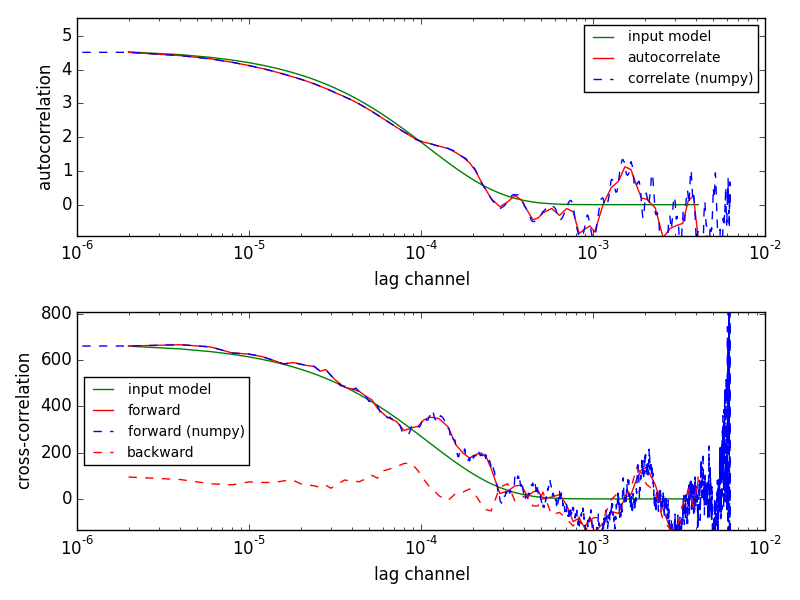
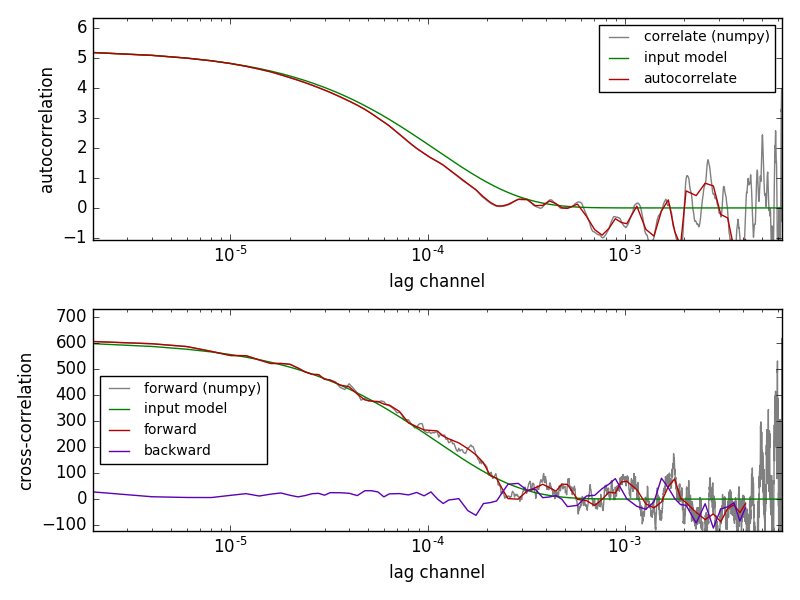
update example

diff --git a/examples/compare_correlation_methods.py b/examples/compare_correlation_methods.py
@@ -37,12 +37,10 @@ def compare_corr():
     # time factor
     taudiff *= deltat
 
-    ##
     ## Autocorrelation
-    ##
     print("Creating noise for autocorrelation")
     data = noise_exponential(N, taudiff, deltat=deltat)
-    data += - np.average(data)
+    data -= np.average(data)
     if normalize:
         data += countrate
     # multipletau
@@ -53,71 +51,66 @@ def compare_corr():
         print("Performing autocorrelation (numpy).")
         Gd = correlate_numpy(data, data, deltat=deltat,
                              normalize=normalize)
-    # Calculate the expected curve
-    x = G[:,0]
+    
+    ## Cross-correlation
+    print("Creating noise for cross-correlation")
+    a, v = noise_cross_exponential(N, taudiff, deltat=deltat)
+    a -= np.average(a)
+    v -= np.average(v)
+    if normalize:
+        a += countrate
+        v += countrate
+    Gccforw = correlate(a, v, deltat=deltat, normalize=normalize) # forward
+    Gccback = correlate(v, a, deltat=deltat, normalize=normalize) # backward
+    if len(a) < 1e5:
+        print("Performing cross-correlation (numpy).")
+        Gdccforw = correlate_numpy(a, v, deltat=deltat, normalize=normalize)
+    
+    ## Calculate the model curve for cross-correlation
+    xcc = Gd[:,0]
+    ampcc = np.correlate(a-np.average(a), v-np.average(v), mode="valid")
+    if normalize:
+        ampcc /= len(a) * countrate**2
+    ycc = ampcc*np.exp(-xcc/taudiff)
+
+    ## Calculate the model curve for autocorrelation
+    x = Gd[:,0]
     amp = np.correlate(data-np.average(data), data-np.average(data),
                        mode="valid")
     if normalize:
         amp /= len(data) * countrate**2
     y = amp*np.exp(-x/taudiff)
 
-    ##
-    ## Cross-correlation
-    ##
-    print("Creating noise for cross-correlation")
-    a, v = noise_cross_exponential(N, taudiff, deltat=deltat)
-    a += - np.average(a)
-    v += - np.average(v)
-    if normalize:
-        a += countrate
-        v += countrate
-    # multipletau
-    Gccforw = correlate(a, v, deltat=deltat, normalize=normalize)
-    Gccback = correlate(v, a, deltat=deltat, normalize=normalize)
-    if len(a) < 1e5:
-        print("Performing autocorrelation (numpy).")
-        Gdccforw = correlate_numpy(a, v, deltat=deltat, normalize=normalize)
-    # Calculate the expected curve
-    xcc = Gccforw[:,0]
-    ampcc = np.correlate(a-np.average(a), v-np.average(v), mode="valid")
 
-    if normalize:
-        ampcc /= len(a) * countrate**2
-    ycc = ampcc*np.exp(-xcc/taudiff)
-
-
-    ##
     ## Plotting
-    ##
-
     # AC
     fig = plt.figure()
     fig.canvas.set_window_title('testing multipletau')
     ax = fig.add_subplot(2,1,1)
     ax.set_xscale('log')
-    plt.plot(x, y, "g-", label="input model")
-    plt.plot(G[:,0], G[:,1], "r-", label="autocorrelate")
     if len(data) < 1e5:
-        plt.plot(Gd[:,0], Gd[:,1] , "b--", label="correlate (numpy)")
+        plt.plot(Gd[:,0], Gd[:,1] , "-", color="gray", label="correlate (numpy)")
+    plt.plot(x, y, "g-", label="input model")
+    plt.plot(G[:,0], G[:,1], "-",  color="#B60000", label="autocorrelate")
     plt.xlabel("lag channel")
     plt.ylabel("autocorrelation")
     plt.legend(loc=0, fontsize='small')
     plt.ylim( -amp*.2, amp*1.2)
+    plt.xlim( Gd[0,0], Gd[-1,0])
 
-
-    ## CC
+    # CC
     ax = fig.add_subplot(2,1,2)
     ax.set_xscale('log')
-    plt.plot(xcc, ycc, "g-", label="input model")
-    plt.plot(Gccforw[:,0], Gccforw[:,1], "r-", label="forward")
     if len(data) < 1e5:
-        plt.plot(Gdccforw[:,0], Gdccforw[:,1] , "b--", label="forward (numpy)")
-    plt.plot(Gccback[:,0], Gccback[:,1], "r--", label="backward")
+        plt.plot(Gdccforw[:,0], Gdccforw[:,1] , "-", color="gray", label="forward (numpy)")
+    plt.plot(xcc, ycc, "g-", label="input model")
+    plt.plot(Gccforw[:,0], Gccforw[:,1], "-", color="#B60000", label="forward")
+    plt.plot(Gccback[:,0], Gccback[:,1], "-", color="#5D00B6", label="backward")
     plt.xlabel("lag channel")
     plt.ylabel("cross-correlation")
     plt.legend(loc=0, fontsize='small')
-
     plt.ylim( -ampcc*.2, ampcc*1.2)
+    plt.xlim( Gd[0,0], Gd[-1,0])
     plt.tight_layout()
 
     savename = __file__[:-3]+".png"
